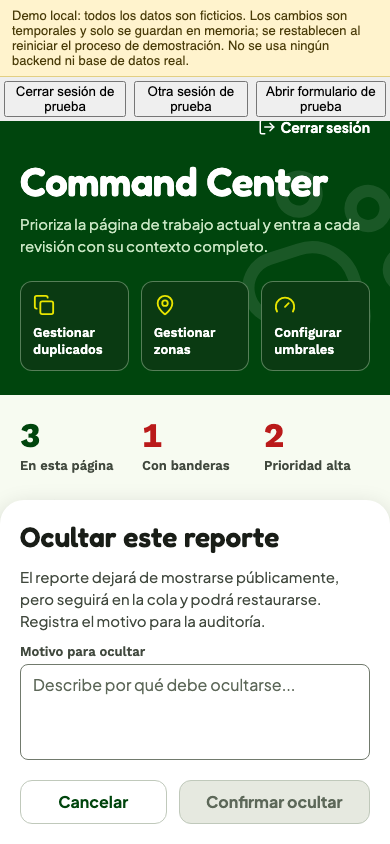
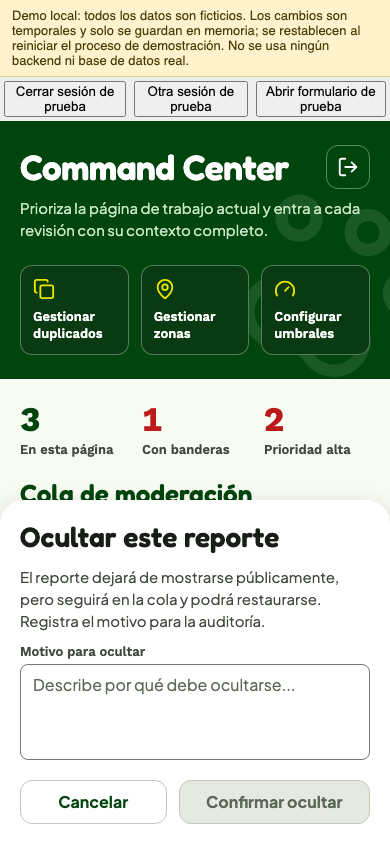
style(design): TD-134 Command Center: cola como bandeja con barra de acciones y cierre de sesión en el título
Cada reporte es una fila con barra de gravedad, señales en texto, ubicación como línea de tabla y acciones planas Aprobar, Ocultar y Eliminar. Cerrar sesión pasa a botón de ícono junto al título. TASTE.md con las reglas 26 a 28.

Changed region(s): [[0.0, 0.1232, 1.0, 0.6161]]

diff --git a/screens/CommandCenterScreen.js b/screens/CommandCenterScreen.js
@@ -66,41 +66,57 @@ function Tool({ icon, label, onPress }) {
   );
 }
 
-/** Moderation queue entry offering only the commands listed in `report.allowed_commands`. */
+/** Moderation queue entry as an inbox row: severity bar, plain-text signals, and a flat action bar with only the allowed commands. */
 function ReportCard({ report, busy, onApprove, onHide, onRestore, onDelete, t }) {
   const can = (command) => report.allowed_commands?.includes(command);
   const incident = t(`moderation.incidents.${report.incident_type}`, report.incident_type);
   const suspicious = report.location.mock_suspected || report.honeypot_suspected;
+  const hidden = report.status === 'hidden';
+  const actions = [
+    can('approve') && { key: 'approve', label: t('moderation.approve'), color: colors.primary, onPress: () => onApprove(report.id), busy },
+    can('hide') && { key: 'hide', label: t('moderation.hide'), color: colors.warning, onPress: () => onHide(report) },
+    can('restore') && { key: 'restore', label: t('moderation.restore'), color: colors.primary, onPress: () => onRestore(report) },
+    can('delete') && { key: 'delete', label: t('moderation.delete'), color: colors.danger, onPress: () => onDelete(report) },
+  ].filter(Boolean);
   return (
-    <View style={[styles.card, report.isHighSeverity && styles.cardSevere]}>
-      <View style={styles.cardTop}>
-        <View style={styles.cardTitleBlock}>
-          <Text style={styles.incident}>{incident}</Text>
-          <Text style={styles.timestamp}>{formatObservedAt(report.client_created_at)}</Text>
+    <View style={styles.item}>
+      <View style={[styles.stripe, report.isHighSeverity && styles.stripeSevere]} />
+      <View style={styles.itemBody}>
+        <View style={styles.itemTop}>
+          <View style={styles.itemTitleBlock}>
+            <Text style={styles.incident}>{incident}</Text>
+            <Text style={styles.timestamp}>{formatObservedAt(report.client_created_at)}</Text>
+          </View>
+          <Text style={[styles.status, hidden && styles.statusHidden]}>{t(`moderation.status.${report.status}`)}</Text>
         </View>
-        <Chip label={t(`moderation.status.${report.status}`)} tone={report.status === 'hidden' ? 'danger' : 'warning'} />
-      </View>
 
-      {report.description ? <Text style={styles.description}>{report.description}</Text> : null}
-      <View style={styles.signalRow}>
-        <Chip label={`${t('moderation.trust')}: ${report.trust?.tier ?? '-'}`} />
-        <Chip label={`${t('moderation.flags')}: ${report.flagCount}`} tone={report.flagCount > 0 ? 'danger' : 'neutral'} />
-        <Chip label={`${t('moderation.photo')}: ${report.photo_available ? t('common.yes') : t('common.no')}`} />
-      </View>
-      <View style={styles.locationBox}>
-        <Icon name="map" size={18} color={colors.info} />
-        <View style={styles.locationText}>
-          <Text style={styles.locationLabel}>{t('moderation.exactLocation')}</Text>
+        {report.description ? <Text style={styles.description}>{report.description}</Text> : null}
+        <View style={styles.meta}>
+          <Text style={styles.metaText}>{t('moderation.trust')}: {report.trust?.tier ?? '-'}</Text>
+          <Text style={styles.metaBar}>|</Text>
+          <Text style={[styles.metaText, report.flagCount > 0 && styles.metaHot]}>{`${t('moderation.flags')}: ${report.flagCount}`}</Text>
+          <Text style={styles.metaBar}>|</Text>
+          <Text style={styles.metaText}>{`${t('moderation.photo')}: ${report.photo_available ? t('common.yes') : t('common.no')}`}</Text>
+        </View>
+        <View style={styles.place}>
+          <Text style={styles.placeLabel}>{t('moderation.exactLocation')}</Text>
           <Text style={styles.coordinates}>{report.location.latitude.toFixed(5)}, {report.location.longitude.toFixed(5)}</Text>
         </View>
+        {suspicious ? <Text style={styles.warningText}>{t('moderation.suspiciousSignals')}</Text> : null}
       </View>
-      {suspicious ? <Text style={styles.warningText}>{t('moderation.suspiciousSignals')}</Text> : null}
 
-      <View style={styles.actions}>
-        {can('approve') ? <AppButton title={t('moderation.approve')} loading={busy} disabled={busy} onPress={() => onApprove(report.id)} style={styles.actionMain} /> : null}
-        {can('hide') ? <AppButton title={t('moderation.hide')} variant="secondary" disabled={busy} onPress={() => onHide(report)} style={styles.action} /> : null}
-        {can('restore') ? <AppButton title={t('moderation.restore')} variant="secondary" disabled={busy} onPress={() => onRestore(report)} style={styles.action} /> : null}
-        {can('delete') ? <AppButton title={t('moderation.delete')} variant="destructive" disabled={busy} onPress={() => onDelete(report)} style={styles.action} /> : null}
+      <View style={styles.actionBar}>
+        {actions.map((action, index) => (
+          <Pressable
+            key={action.key}
+            accessibilityRole="button"
+            disabled={busy}
+            onPress={action.onPress}
+            style={({ pressed }) => [styles.actionCell, index > 0 && styles.actionDivider, pressed && styles.pressed, busy && styles.disabled]}
+          >
+            {action.busy ? <ActivityIndicator accessibilityLabel={t('common.loading')} color={action.color} /> : <Text style={[styles.actionText, { color: action.color }]}>{action.label}</Text>}
+          </Pressable>
+        ))}
       </View>
     </View>
   );
@@ -143,12 +159,14 @@ export default function CommandCenterScreen({ accessToken, onOpenConfiguration, 
       <View style={styles.hero}>
         <View pointerEvents="none" accessible={false} aria-hidden importantForAccessibility="no" style={styles.bigPaw}><Icon name="dog" size={210} color={colors.onPrimary} strokeWidth={1.4} /></View>
         <View style={styles.heroInner}>
-          {onLogout ? (
-            <Pressable accessibilityRole="button" disabled={logoutPending} onPress={onLogout} hitSlop={8} style={[styles.logout, logoutPending && styles.disabled]}>
-              <Icon name="logout" size={18} color={colors.onPrimary} /><Text style={styles.logoutText}>{t('login.logout')}</Text>
-            </Pressable>
-          ) : null}
-          <Text accessibilityRole="header" style={styles.title}>{t('commandCenter.title')}</Text>
+          <View style={styles.titleRow}>
+            <Text accessibilityRole="header" style={styles.title}>{t('commandCenter.title')}</Text>
+            {onLogout ? (
+              <Pressable accessibilityRole="button" accessibilityLabel={t('login.logout')} disabled={logoutPending} onPress={onLogout} hitSlop={6} style={({ pressed }) => [styles.logout, pressed && styles.pressed, logoutPending && styles.disabled]}>
+                <Icon name="logout" size={22} color={colors.onPrimary} />
+              </Pressable>
+            ) : null}
+          </View>
           <Text style={styles.subtitle}>{t('commandCenter.subtitle')}</Text>
           {onOpenDuplicates || onOpenZoneSets || onOpenConfiguration ? (
             <View style={styles.tools}>
@@ -257,9 +275,9 @@ const styles = StyleSheet.create({
   hero: { backgroundColor: colors.primary, overflow: 'hidden' },
   bigPaw: { position: 'absolute', right: -44, top: 56, opacity: 0.1, transform: [{ rotate: '-18deg' }] },
   heroInner: { width: '100%', maxWidth: 960, alignSelf: 'center', paddingHorizontal: layout.margin, paddingTop: spacing.sm, paddingBottom: spacing.xxl, gap: spacing.sm },
-  logout: { flexDirection: 'row', alignItems: 'center', gap: spacing.xs, minHeight: layout.minTouch, alignSelf: 'flex-end' },
-  logoutText: { ...type.button, fontSize: 14, color: colors.onPrimary },
-  title: { fontFamily: fontFamily.display, fontSize: 40, lineHeight: 48, letterSpacing: -0.4, color: colors.onPrimary },
+  titleRow: { flexDirection: 'row', alignItems: 'center', justifyContent: 'space-between', gap: spacing.md, marginTop: spacing.lg },
+  logout: { width: layout.minTouch, height: layout.minTouch, borderRadius: 12, alignItems: 'center', justifyContent: 'center', borderWidth: 1, borderColor: 'rgba(201,230,196,0.45)' },
+  title: { flex: 1, fontFamily: fontFamily.display, fontSize: 35, lineHeight: 42, letterSpacing: -0.4, color: colors.onPrimary },
   subtitle: { ...type.body, fontSize: 15, lineHeight: 22, color: colors.onForest, maxWidth: 520 },
   tools: { flexDirection: 'row', gap: spacing.md, marginTop: spacing.lg },
   tool: { flex: 1, minHeight: 84, borderRadius: radius.md, borderWidth: 1, borderColor: 'rgba(201,230,196,0.4)', backgroundColor: colors.forestField, padding: spacing.md, gap: spacing.sm, justifyContent: 'space-between' },
@@ -272,24 +290,28 @@ const styles = StyleSheet.create({
   queueIntro: { marginHorizontal: layout.margin, marginBottom: spacing.lg, gap: spacing.xs },
   queueTitle: { fontFamily: fontFamily.display, fontSize: 26, lineHeight: 32, color: colors.primary },
   pageScope: { ...type.caption, color: colors.inkMuted },
-  gridRow: { paddingHorizontal: spacing.md, gap: spacing.md },
+  gridRow: { gap: 1 },
   gridItem: { flex: 1, maxWidth: '50%' },
-  card: { backgroundColor: colors.surface, borderColor: colors.border, borderWidth: 1, borderLeftWidth: 4, borderLeftColor: colors.outlineSoft, borderRadius: radius.lg, marginHorizontal: layout.margin, marginBottom: spacing.md, padding: spacing.lg, gap: spacing.md },
-  cardSevere: { borderLeftColor: colors.dangerAlert },
-  cardTop: { flexDirection: 'row', alignItems: 'flex-start', gap: spacing.md },
-  cardTitleBlock: { flex: 1, gap: 2 },
-  incident: { fontFamily: fontFamily.displayMedium, fontSize: 20, lineHeight: 26, color: colors.ink },
+  item: { backgroundColor: colors.surface, borderTopWidth: 1, borderTopColor: colors.border },
+  stripe: { position: 'absolute', left: 0, top: 0, bottom: 0, width: 4, backgroundColor: colors.outlineSoft },
+  stripeSevere: { backgroundColor: colors.dangerAlert },
+  itemBody: { paddingHorizontal: layout.margin, paddingTop: spacing.lg, paddingBottom: spacing.md, gap: spacing.sm },
+  itemTop: { flexDirection: 'row', alignItems: 'flex-start', gap: spacing.md },
+  itemTitleBlock: { flex: 1, gap: 2 },
+  incident: { fontFamily: fontFamily.displayMedium, fontSize: 21, lineHeight: 27, color: colors.ink },
   timestamp: { ...type.caption, color: colors.inkMuted, fontVariant: ['tabular-nums'] },
+  status: { fontFamily: fontFamily.label, fontSize: 14, color: colors.warning, marginTop: 2 }, statusHidden: { color: colors.danger },
   description: { ...type.body, fontSize: 15, lineHeight: 22, color: colors.ink },
-  signalRow: { flexDirection: 'row', flexWrap: 'wrap', gap: spacing.sm },
-  locationBox: { flexDirection: 'row', alignItems: 'center', gap: spacing.md, backgroundColor: colors.infoSoft, borderRadius: radius.md, padding: spacing.md },
-  locationText: { flex: 1, gap: 1 },
-  locationLabel: { fontFamily: fontFamily.label, fontSize: 12, color: colors.inkMuted },
-  coordinates: { fontFamily: fontFamily.labelMedium, fontVariant: ['tabular-nums'], fontSize: 15, color: colors.ink },
+  meta: { flexDirection: 'row', flexWrap: 'wrap', alignItems: 'center', gap: spacing.sm },
+  metaText: { fontFamily: fontFamily.labelMedium, fontSize: 13, color: colors.inkMuted }, metaHot: { fontFamily: fontFamily.label, color: colors.danger },
+  metaBar: { fontSize: 13, color: colors.outlineSoft },
+  place: { flexDirection: 'row', alignItems: 'baseline', justifyContent: 'space-between', gap: spacing.md, borderTopWidth: 1, borderTopColor: colors.border, paddingTop: spacing.sm },
+  placeLabel: { fontFamily: fontFamily.label, fontSize: 13, color: colors.inkMuted },
+  coordinates: { fontFamily: fontFamily.labelMedium, fontVariant: ['tabular-nums'], fontSize: 14, color: colors.ink },
   warningText: { ...type.caption, fontSize: 13, color: colors.danger },
-  actions: { flexDirection: 'row', flexWrap: 'wrap', gap: spacing.md, marginTop: spacing.xs },
-  actionMain: { flexGrow: 2, flexBasis: 96, borderRadius: 12 },
-  action: { flexGrow: 1, flexBasis: 72, borderRadius: 12, paddingHorizontal: spacing.sm },
+  actionBar: { flexDirection: 'row', borderTopWidth: 1, borderTopColor: colors.border },
+  actionCell: { flex: 1, minHeight: 52, alignItems: 'center', justifyContent: 'center' }, actionDivider: { borderLeftWidth: 1, borderLeftColor: colors.border },
+  actionText: { fontFamily: fontFamily.displayMedium, fontSize: 17 },
   pressed: { opacity: 0.78 }, disabled: { opacity: 0.42 },
   loader: { padding: 30 }, empty: { ...type.body, color: colors.inkMuted, textAlign: 'center', padding: 40 },
   moreButton: { alignSelf: 'center', borderColor: colors.primary, borderWidth: 1, borderRadius: 12, minWidth: 160, minHeight: layout.minTouch, padding: spacing.md, alignItems: 'center', justifyContent: 'center', marginTop: spacing.xs },

diff --git a/docs/redesign/TASTE.md b/docs/redesign/TASTE.md
@@ -91,6 +91,24 @@ Segundo intento (aprobado: "perfecto"), commit `48c404c`:
 24. **Los datos crudos se resumen y se pliegan;** el detalle se despliega a demanda, en columnas alineadas con cifras tabulares.
 25. **Las cantidades llevan plural correcto** ("1 conexión", "2 conexiones") con las formas `_one` y `_other` de i18n.
 
+## Command Center (cola de moderación)
+
+Primer intento (rechazado: "las tarjetas se siguen viendo muy ai-slop; la posición de sign out no me convence"): cada reporte en una tarjeta con borde, chips de colores, bloque azul de ubicación y tres botones con marco; "Cerrar sesión" suelto arriba a la derecha.
+
+Segundo intento: **una bandeja, no tarjetas.**
+- Cada reporte es una **fila a todo el ancho** sobre blanco, separada por líneas finas, con **barra lateral de gravedad** (roja si es alta).
+- **Señales como texto plano** en una línea (Confianza | Banderas | Foto); solo las banderas se pintan de rojo si hay. Sin chips.
+- **Ubicación como línea de tabla:** etiqueta a la izquierda, coordenadas a la derecha. Sin bloque azul.
+- **Acciones como barra plana al pie de la fila:** "Aprobar | Ocultar | Eliminar" separadas por líneas, sin marco; verde, ámbar y rojo.
+- **Cerrar sesión como botón de ícono en la misma línea del título.**
+- Las **herramientas** (duplicados, zonas, umbrales) como tres mosaicos en una fila.
+
+### Reglas añadidas (26 a 28)
+
+26. **Las listas de elementos de decisión van como filas de bandeja** (a todo el ancho, con separadores) y no como tarjetas apiladas.
+27. **Las acciones por fila van como barra plana con texto de color,** no como botones con marco.
+28. **Las acciones globales (cerrar sesión) viven en la barra del título,** no flotando solas.
+
 ## Cómo se trabaja con las skills
 
 `frontend-design` ayudó más que el resto: obliga a planear con una paleta, roles de tipografía y un wireframe, a revisar el plan contra los defaults de plantilla y a gastar el riesgo estético en un solo lugar. `design-taste-frontend` sirve como lista de verificación (contraste, estados, etiquetas arriba del campo). `mobile-redesign-screen` da el método (auditar, proponer, arreglar). Para cada pantalla nueva: invocar `frontend-design` primero para el plan.
